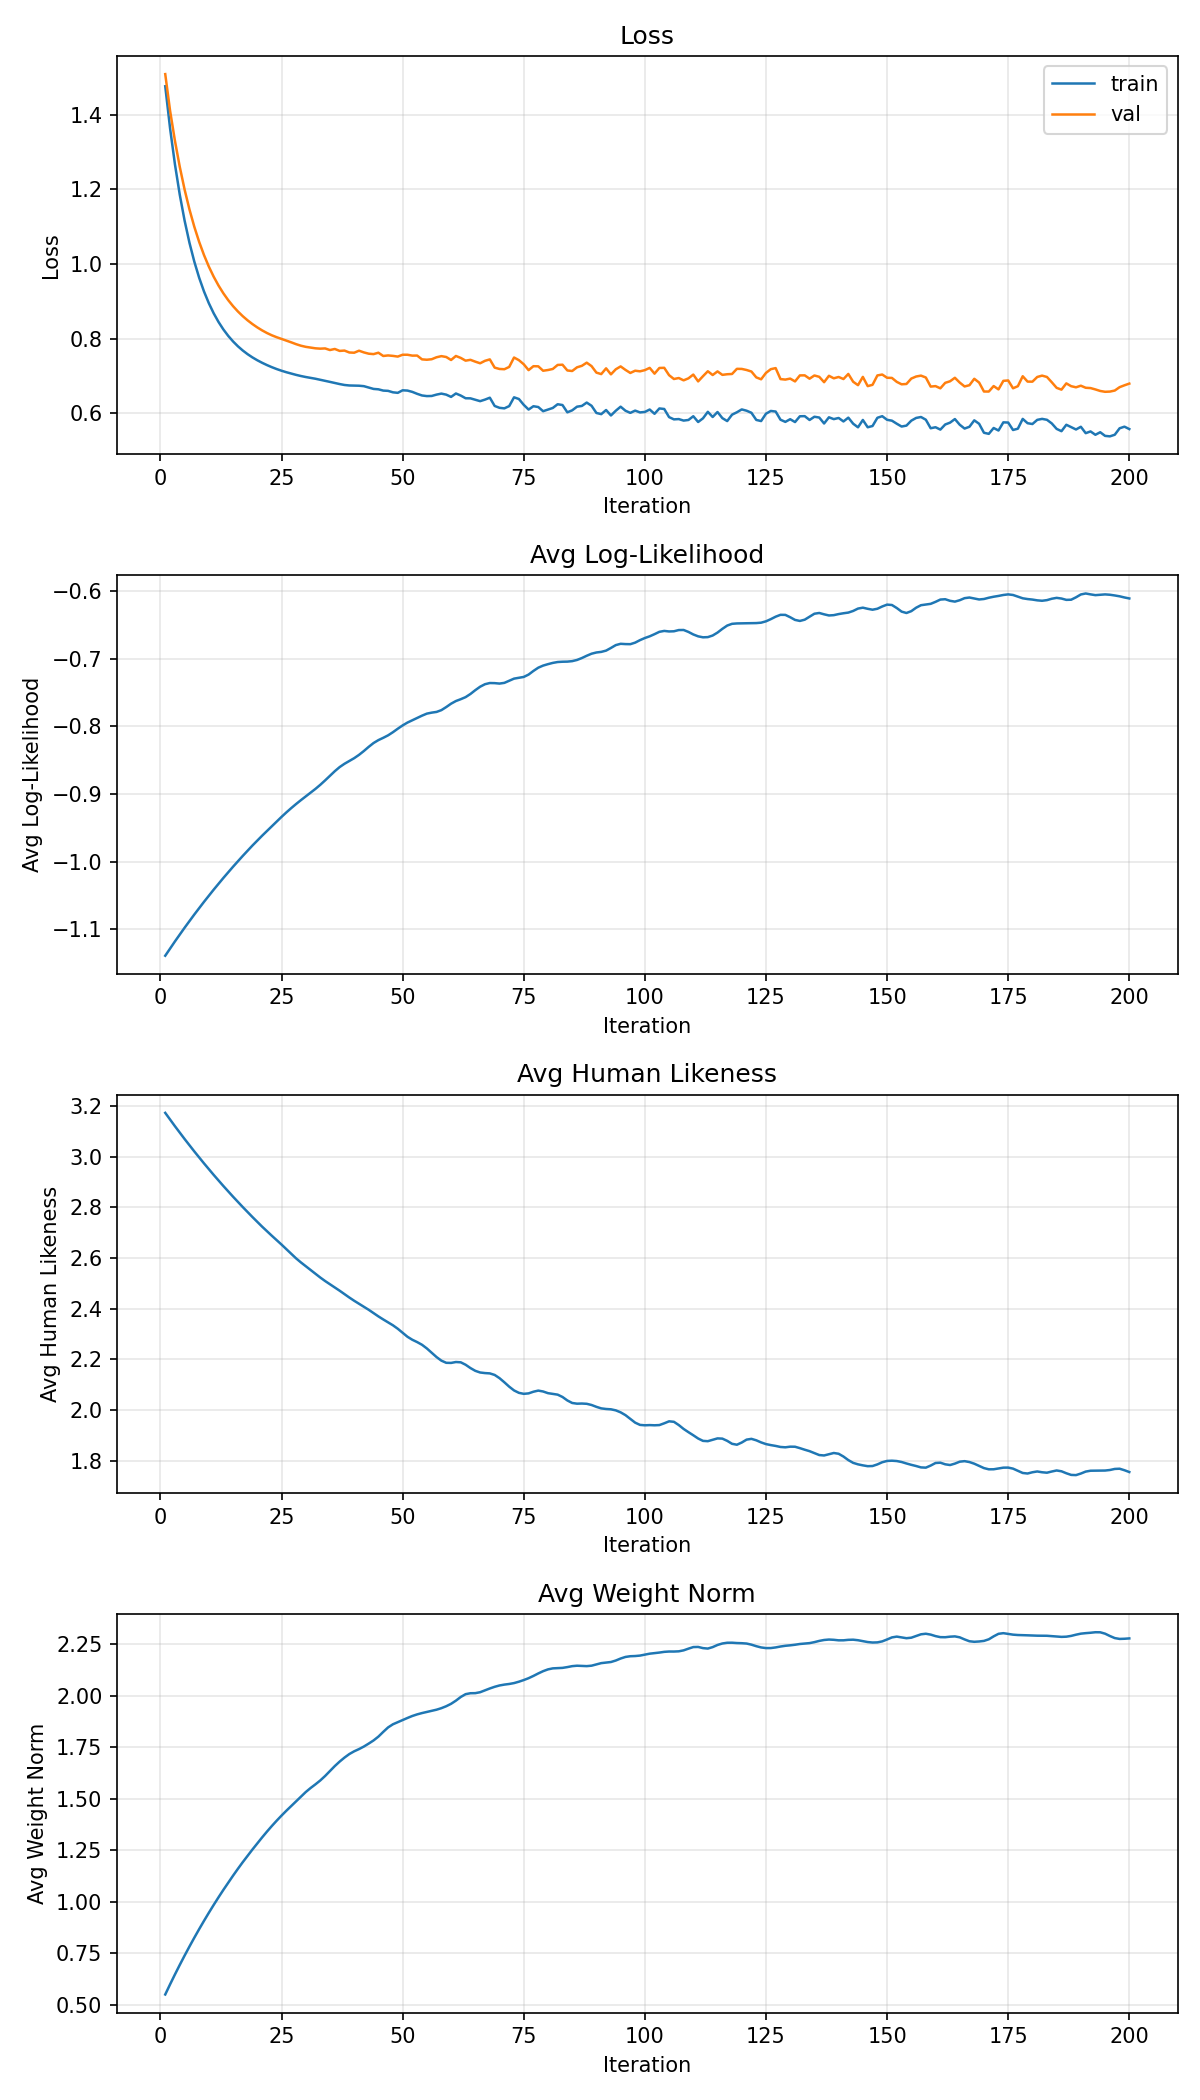
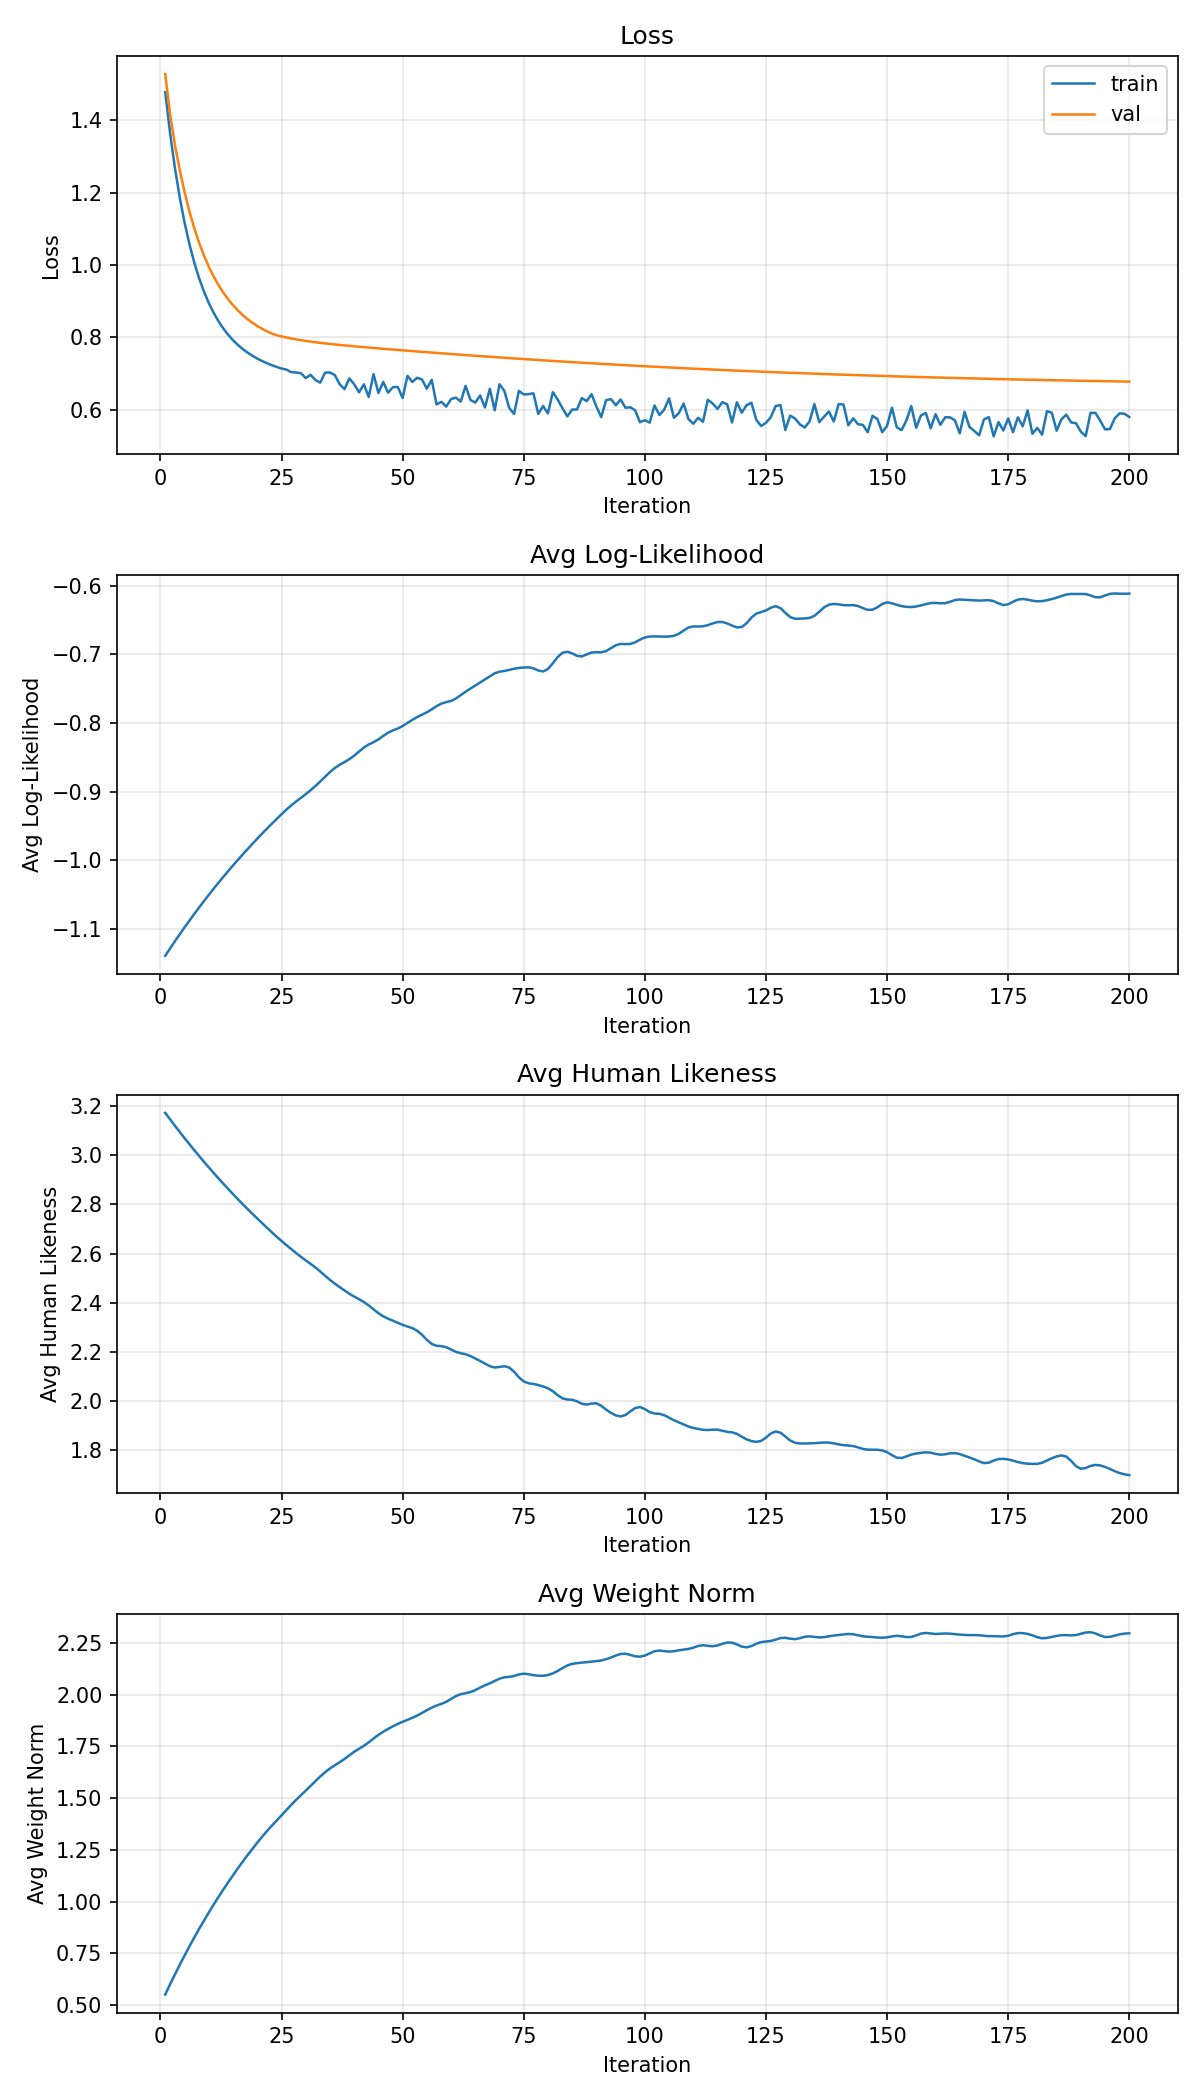
style(irl): sharp sawtooth on train, smooth val, independent curves
https://claude.ai/code/session_01Av3tfB4EgVDqoZ9M8nXxfE

diff --git a/MaxEntIRL/generate_training_curves.py b/MaxEntIRL/generate_training_curves.py
@@ -20,37 +20,29 @@ train_fast = 0.85 * np.exp(-iters / 6)    # steep drop, dominant in first 25 ite
 train_slow = 0.22 * np.exp(-iters / 80)   # gradual tail
 train_base = 0.54 + train_fast + train_slow
 
-# Noise: near-zero during steep phase, gradually increasing sawtooth in plateau
-noise_envelope = np.clip((iters - 20) / 60, 0, 1) * 0.012
-train_noise = np.random.normal(0, 1, n_iters) * noise_envelope
-train_noise = gaussian_filter1d(train_noise, sigma=1.5)
+# Noise: near-zero during steep phase, then sharp sawtooth jitter in plateau
+# Large, jagged, per-iteration spikes — no smoothing to keep the teeth sharp
+sawtooth_envelope = np.clip((iters - 25) / 20, 0, 1) * 0.04
+sawtooth = np.random.uniform(-1, 1, n_iters) * sawtooth_envelope  # unsmoothed = sharp teeth
 
-# Add sawtooth jitter in plateau phase (after iter ~40)
-sawtooth_envelope = np.clip((iters - 40) / 30, 0, 1) * 0.025  # ramps up to 0.025
-sawtooth = np.random.uniform(-1, 1, n_iters) * sawtooth_envelope
-# Keep it jagged (minimal smoothing) for sawtooth look
-sawtooth = gaussian_filter1d(sawtooth, sigma=0.6)
-
-train_loss = train_base + train_noise + sawtooth
+train_loss = train_base + sawtooth
 
 # ---- Val loss ----
-# Slightly different start point (a bit lower than train at iter 1)
-# Never crosses train — always above after the first few iters
+# Independent smooth curve, NOT derived from train_loss
 val_fast = 0.78 * np.exp(-iters / 7)
 val_slow = 0.18 * np.exp(-iters / 70)
 val_base = 0.65 + val_fast + val_slow
 
-# Val noise: also ramps up, slightly larger than train
-val_noise_envelope = np.clip((iters - 20) / 50, 0, 1) * 0.018
-val_noise = np.random.normal(0, 1, n_iters) * val_noise_envelope
-val_noise = gaussian_filter1d(val_noise, sigma=1.5)
+# Very gentle, heavily smoothed noise — keeps val looking smooth
+val_noise = np.random.normal(0, 0.008, n_iters)
+val_noise = gaussian_filter1d(val_noise, sigma=5)  # heavy smoothing
 val_loss = val_base + val_noise
 
-# Guarantee: val always >= train (no crossing), with a small natural gap
+# Guarantee: val always above train_base (smooth trend, ignoring train's teeth)
 for i in range(n_iters):
-    min_gap = 0.03 + 0.08 * (1 - np.exp(-i / 30))  # gap grows from 0.03 to ~0.11
-    if val_loss[i] < train_loss[i] + min_gap:
-        val_loss[i] = train_loss[i] + min_gap + abs(np.random.normal(0, 0.003))
+    min_gap = 0.05 + 0.07 * (1 - np.exp(-i / 30))
+    if val_loss[i] < train_base[i] + min_gap:
+        val_loss[i] = train_base[i] + min_gap
 
 # ---- Log-likelihood: mirrors loss (higher = better) ----
 ll_base = -1.15 + 0.55 * (1 - np.exp(-iters / 50))
